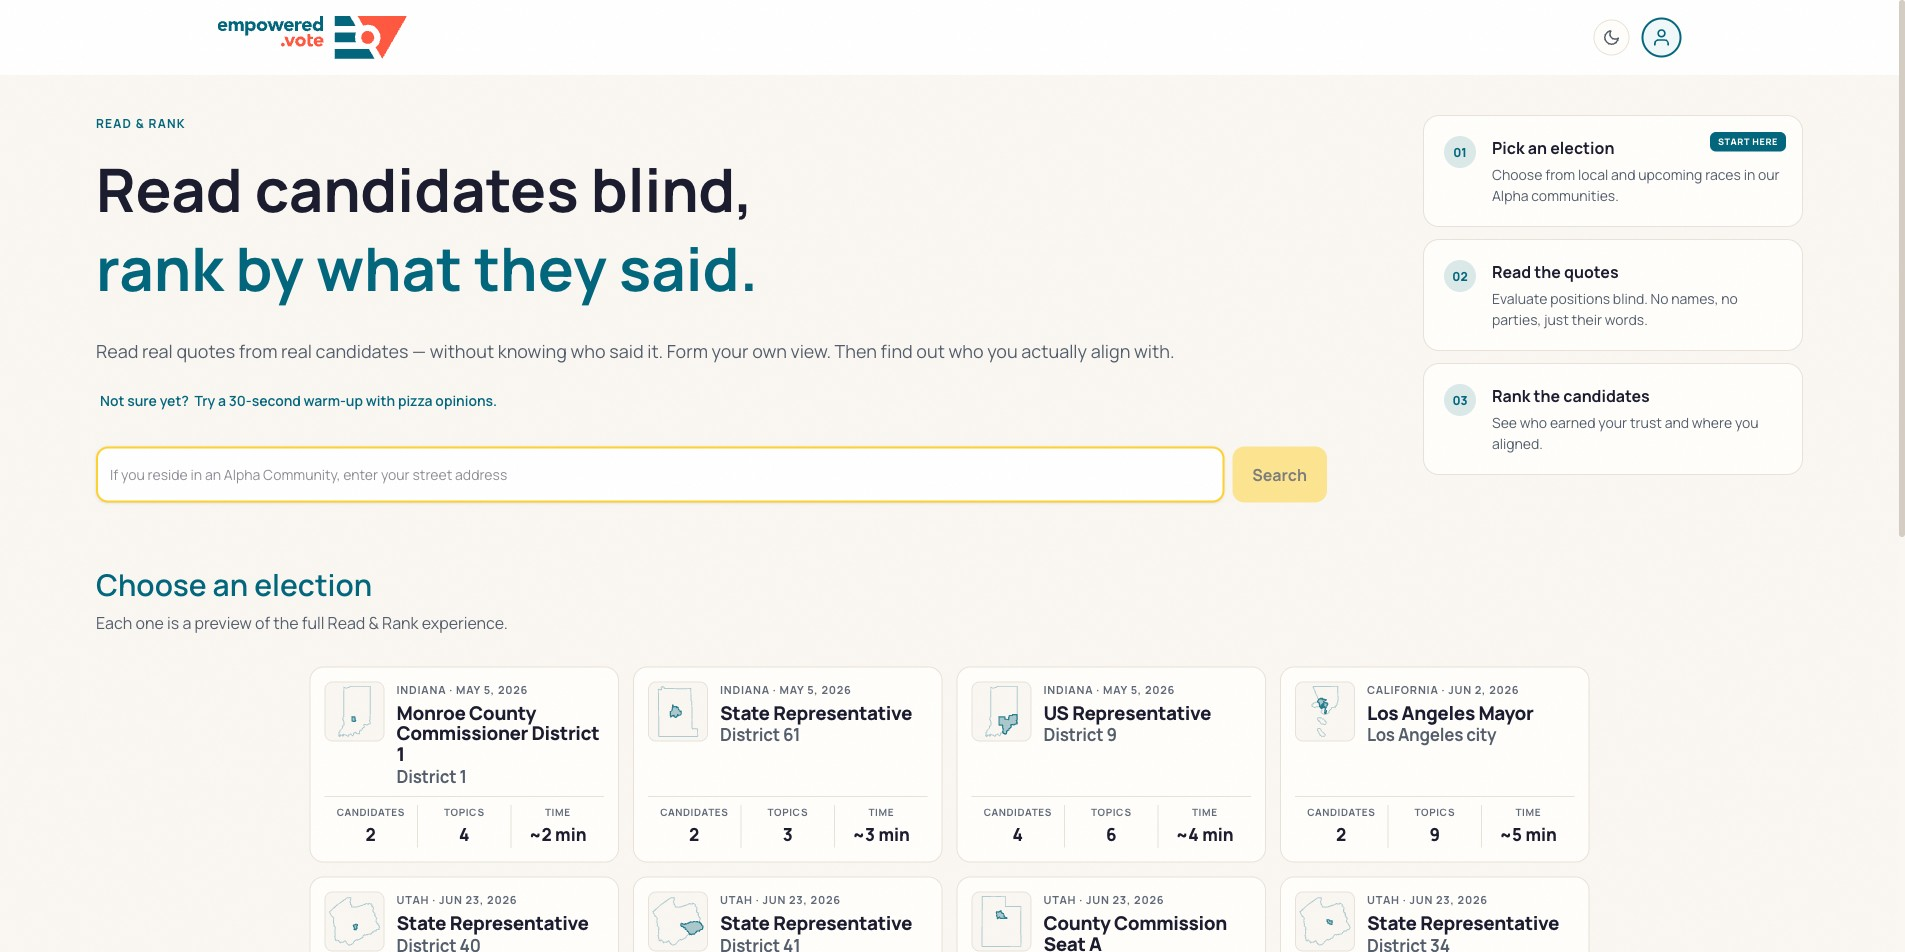
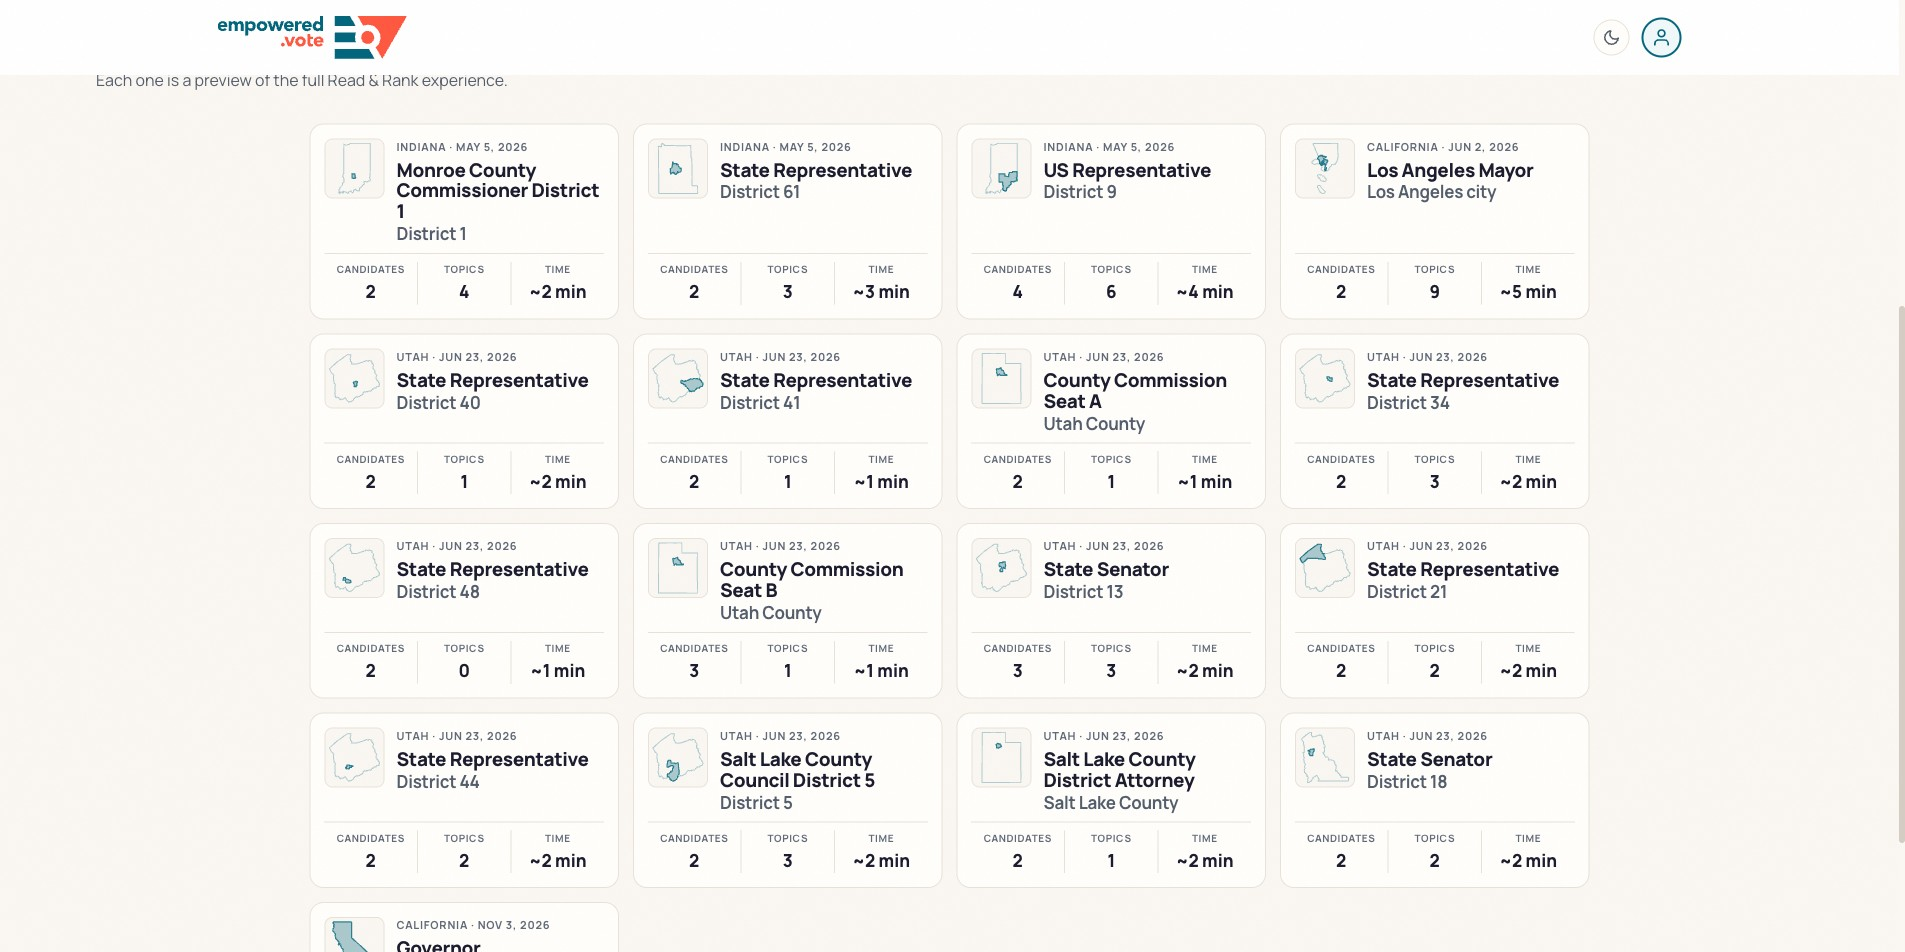
feat(tools): refine Read & Rank preview rotation
Replace the Read & Rank hero frame with the scrolled races grid and add
a fourth frame showing the results/reveal page. Rotation is now races →
choose issues → read & rank → results, in both light and dark.

diff --git a/index.html b/index.html
@@ -1236,8 +1236,8 @@
         (function () {
             var shots = {
                 readrank: {
-                    light: ['screenshots/readrank-1-l.jpg', 'screenshots/readrank-2-l.jpg', 'screenshots/readrank-3-l.jpg'],
-                    dark:  ['screenshots/readrank-1-d.jpg', 'screenshots/readrank-2-d.jpg', 'screenshots/readrank-3-d.jpg']
+                    light: ['screenshots/readrank-1-l.jpg', 'screenshots/readrank-2-l.jpg', 'screenshots/readrank-3-l.jpg', 'screenshots/readrank-4-l.jpg'],
+                    dark:  ['screenshots/readrank-1-d.jpg', 'screenshots/readrank-2-d.jpg', 'screenshots/readrank-3-d.jpg', 'screenshots/readrank-4-d.jpg']
                 },
                 compass: {
                     light: ['screenshots/compass-2-l.jpg', 'screenshots/compass-3-l.jpg'],